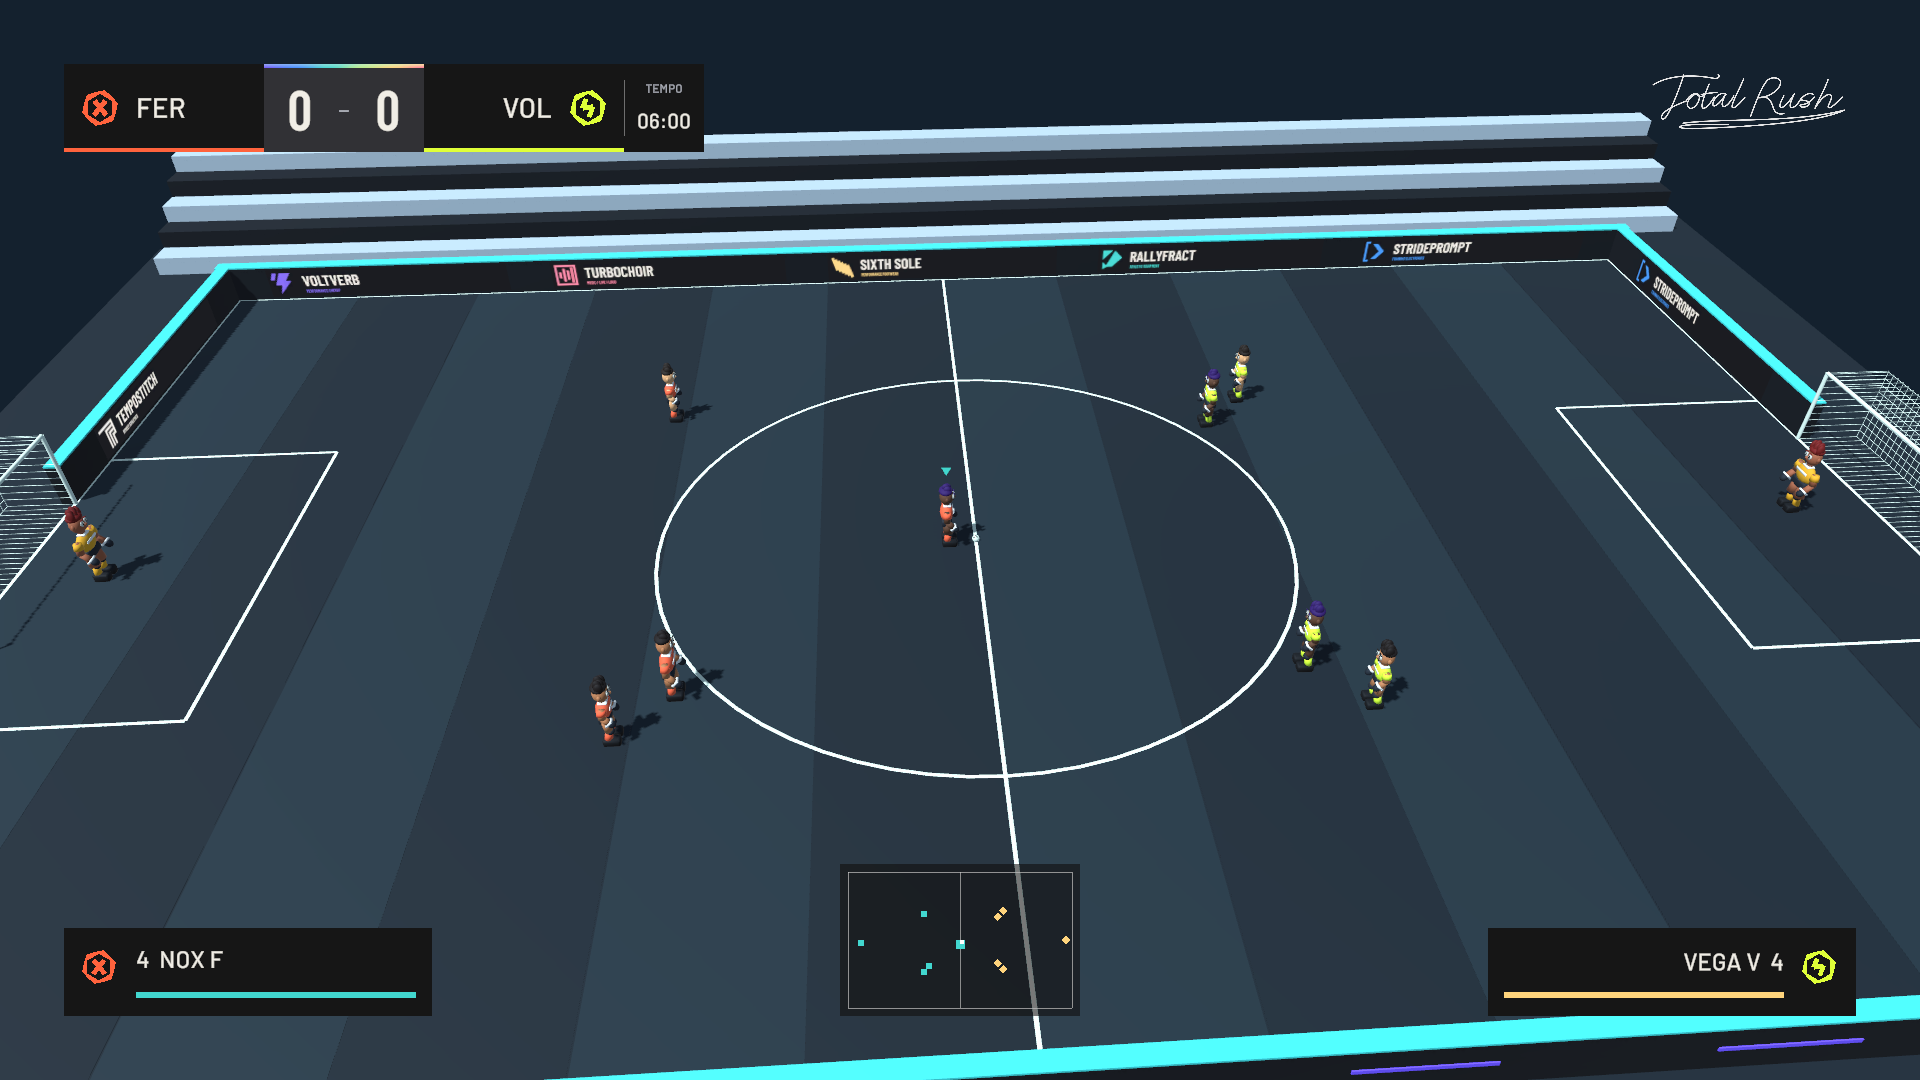
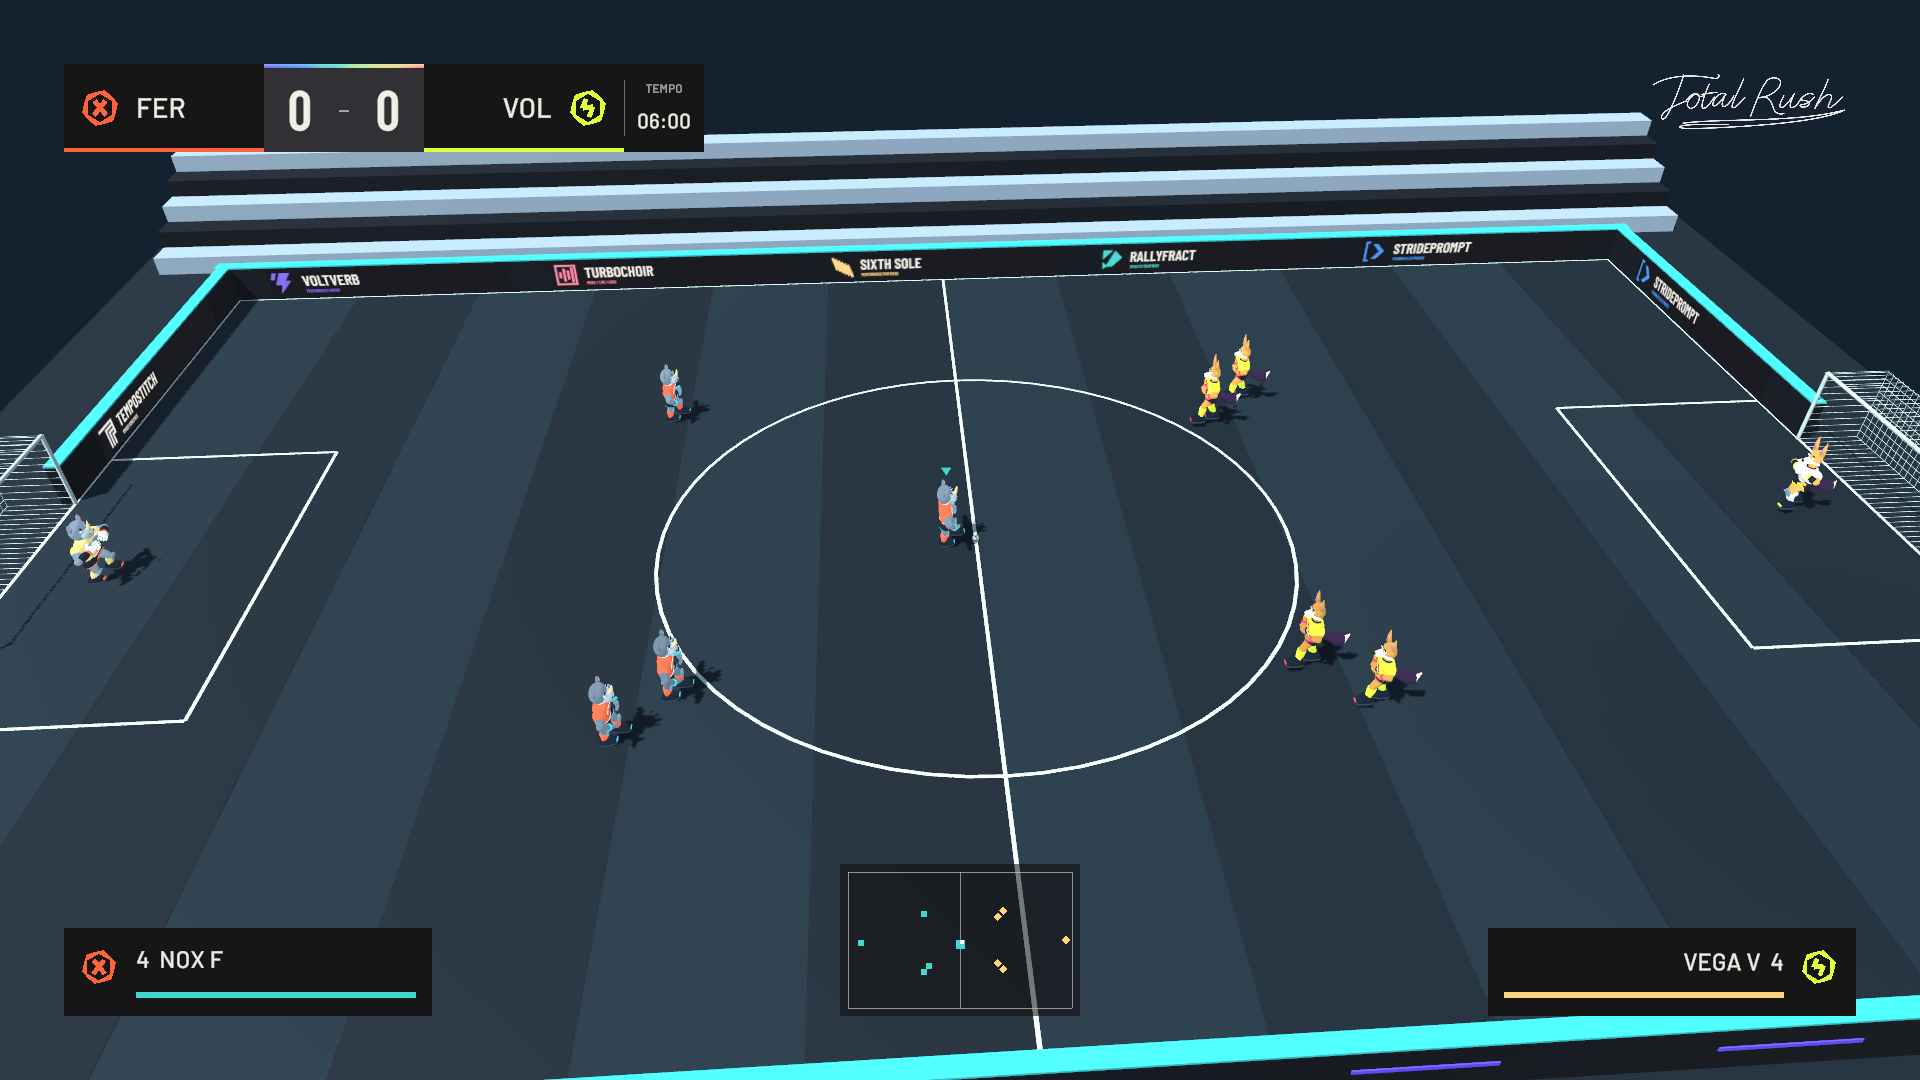
Total Rush 0.1.3: Arena Creatures, original motion and Vector Core

diff --git a/README.md b/README.md
@@ -5,7 +5,7 @@
 <p align="center"><img src="docs/assets/total-rush-icon.png" alt="Icona Total Rush" width="112"></p>
 
 <p align="center"><strong>Calcio arcade. Squadre originali. Nessun freno.</strong></p>
-<p align="center">macOS Apple Silicon · Windows x64 · Versione 0.1.2</p>
+<p align="center">macOS Apple Silicon · Windows x64 · Versione 0.1.3</p>
 
 <p align="center">
   <a href="https://github.com/YooTommy-CH/total-rush/releases/latest"><strong>SCARICA TOTAL RUSH</strong></a>
@@ -17,6 +17,12 @@
 
 ![Il menu di Total Rush, con la firma originale e un capitano 3D](docs/assets/menu.png)
 
+## Arena Creatures — 0.1.3
+
+Un cast animale e fantastico, con proporzioni e silhouette diverse fra squadre. Nuove animazioni originali per locomozione, tiri, passaggi, contrasti, Rush Strike ed esultanze. Il rig mantiene collegate braccia e mani durante le azioni. I portieri hanno modelli e pose di parata dedicati. Il pallone Vector Core sostituisce il modello precedente con pannelli originali e accenti di energia.
+
+![Le famiglie di creature di Total Rush](docs/assets/creatures.png)
+
 ## Prismatic Rush — 0.1.2
 
 Una nuova identità visiva: carta chiara, antracite e luce prismatica. Menu con capitano 3D integrato, selezione delle squadre contrapposte, impostazioni ridisegnate e transizioni direzionali. Il nuovo tabellone mantiene punteggio e timer in colonne stabili; energia, potenza, radar e risultati condividono la stessa geometria. Otto sponsor immaginari originali animano i cartelloni dell’arena.
@@ -27,7 +33,7 @@ Una nuova identità visiva: carta chiara, antracite e luce prismatica. Menu con 
 
 Quattro rusher e un portiere per squadra. Passa, scatta, colpisci e usa le sponde per costruire l’azione. Le spallate spostano gli avversari; i passaggi consecutivi caricano il pallone. In Rush Match scegli tre, cinque o sette minuti.
 
-Otto squadre originali, ognuna con capitano, colori e simbolo propri: **Ferro, Volt, Marea, Cenere, Prisma, Brina, Rift e Selva**. Dodici modelli cartooneschi creati in Blender, con rig animato e tre livelli di dettaglio. Arbitri e allenatori assenti.
+Otto squadre originali, ognuna con capitano, colori e simbolo propri: **Ferro, Volt, Marea, Cenere, Prisma, Brina, Rift e Selva**. Quaranta creature originali create in Blender: rinoceronti, fennec, axolotl, cinghiali vulcanici, falene cristalline, gufi delle nevi, creature ciclopiche e linci. Ogni squadra ha quattro varianti da campo e un portiere dedicato, con rig articolato e tre livelli di dettaglio. Arbitri e allenatori assenti.
 
 ## Green-Check
 
@@ -51,7 +57,7 @@ Il cursore resta in tempo reale. Il tempismo perfetto scatena un tiro elettrico 
 | **Il Circuito** | Una stagione fra le otto squadre originali. |
 | **Allenamento** | Campo libero, partitella, rigori e punizioni. |
 
-![Il nuovo HUD nell’arena di Total Rush](docs/assets/arena.png)
+![Il nuovo cast nell’arena di Total Rush](docs/assets/arena.png)
 
 ## Comandi essenziali
 
@@ -72,7 +78,7 @@ Tiri a giro, potenti, rasoterra e trivela: modificatori nella schermata **Impost
 
 ## Download e aggiornamenti
 
-Scarica **[Total Rush 0.1.2](https://github.com/YooTommy-CH/total-rush/releases/tag/v0.1.2)** per macOS Apple Silicon o Windows x64. La build macOS è firmata con Developer ID e notarizzata da Apple. Su Mac è disponibile anche un **DMG personalizzato**, con installazione trascinando l’app in Applicazioni. App ed eseguibile si chiamano ora **Total Rush.app** e **Total Rush.exe**.
+Scarica **[Total Rush 0.1.3](https://github.com/YooTommy-CH/total-rush/releases/tag/v0.1.3)** per macOS Apple Silicon o Windows x64. La build macOS è firmata con Developer ID e notarizzata da Apple. Su Mac è disponibile anche un **DMG personalizzato**, con installazione trascinando l’app in Applicazioni. App ed eseguibile si chiamano ora **Total Rush.app** e **Total Rush.exe**.
 
 **Passaggio dalla 0.1.0:** scarica e installa manualmente questa versione una volta, perché sono cambiati i nomi dei pacchetti. Dalla 0.1.1 il gioco controlla gli aggiornamenti all’apertura: **Aggiorna ora** scarica e verifica il pacchetto, chiude l’app, installa e riapre il gioco. La libreria personale e i salvataggi restano nel profilo del dispositivo. La soundtrack personale, le copertine e il codice sorgente non sono distribuiti in questo repository.
 
@@ -92,6 +98,6 @@ Abbinamento anche per ordine delle parole, maiuscole, accenti e piccole differen
 
 Anteprima giocabile in sviluppo, realizzata con Unity 6.6 e URP. Le immagini sono catture della build del gioco, senza sfondi generati. Squadre, personaggi, simboli e identità sono originali; nessun personaggio o asset Nintendo incluso.
 
-La build macOS è stata eseguita e verificata. La build Windows è compilata e richiede ancora prove su hardware Windows. Il risultato di 60 FPS su M1 di base resta da misurare. Online e multiplayer locale non sono inclusi nella 0.1.2.
+La build macOS è stata eseguita e verificata. La build Windows è compilata e richiede ancora prove su hardware Windows. Il risultato di 60 FPS su M1 di base resta da misurare. Online e multiplayer locale non sono inclusi nella 0.1.3.
 
 Attribuzioni e licenze di animazioni, font e dipendenze sono incluse nell’app. Vedi [CREDITI.md](CREDITI.md).

diff --git a/CHANGELOG.md b/CHANGELOG.md
@@ -1,5 +1,15 @@
 # Novità
 
+## Total Rush 0.1.3 — Arena Creatures
+
+- Ritirato il cast umano: otto famiglie animali e fantastiche originali, con quaranta varianti, compresi otto portieri dedicati. Proporzioni corporee diverse per specie.
+- Rig a 52 ossa, dita articolate, espressioni e tre LOD. Corretta la continuità di braccia e avambracci durante le pose.
+- 37 clip originali per famiglia, locomozione, cambi direzione, frenate, passaggi brevi/rapidi/potenti, cinque tiri, contrasti, scivolate, Rush Strike ed esultanze.
+- Portieri con stance, spostamenti, parate e recupero dedicati; autorità delle parate e bilanciamento conservati.
+- Nuovo pallone Vector Core, pannelli originali, normal map e tre LOD. Rotazione legata al Rigidbody, collisione sferica invariata.
+- Accenti Rush Strike differenziati per squadra. Menu, modalità, comandi, salvataggi e musica personale conservati.
+
+
 ## Total Rush 0.1.2 — Prismatic Rush
 
 - Nuova composizione del menu: capitano 3D integrato, titoli grandi, modalità in basso, colori prismatici e superfici chiare/scure. Firma e icona esistenti conservate.

diff --git a/CREDITI.md b/CREDITI.md
@@ -4,7 +4,7 @@
 
 **Sponsor immaginari originali:** Voltverb, Turbochoir, Sixth Sole, Rallyfract, Strideprompt, Tempostitch, Zonefern e Bassbracket. Simboli e wordmark disegnati per Total Rush.
 
-**Animazioni:** locomozione Quaternius Universal Animation Library Standard, CC0. Calcio adattato da animazioni Meshy già autorizzate, retargettate sui nuovi personaggi. Attribuzione: Tommaso / Meshy AI — “Model rigged/animated with Meshy”, [CC BY 4.0](https://creativecommons.org/licenses/by/4.0/).
+**Cast e animazioni 0.1.3:** quaranta creature, rig, UV, palette, espressioni, tre LOD, pallone Vector Core e 37 clip per famiglia realizzati per Total Rush in Blender. Nessuna generazione Meshy o animazione Nintendo in questa versione. I modelli e le animazioni delle versioni precedenti sono ritirati dalle risorse attive.
 
 **Font:** Barlow, Jeremy Tribby / Barlow Project; Liberation Sans. SIL Open Font License. Testi delle licenze inclusi nell’app.
 

diff --git a/INSTALLAZIONE.md b/INSTALLAZIONE.md
@@ -1,11 +1,11 @@
 # Installare Total Rush
 
-Scarica **[Total Rush 0.1.2](https://github.com/YooTommy-CH/total-rush/releases/tag/v0.1.2)**.
+Scarica **[Total Rush 0.1.3](https://github.com/YooTommy-CH/total-rush/releases/tag/v0.1.3)**.
 
 
 ## macOS Apple Silicon
 
-1. Scarica `TotalRush-0.1.2-macOS-arm64.dmg` e aprilo.
+1. Scarica `TotalRush-0.1.3-macOS-arm64.dmg` e aprilo.
 2. Nella finestra personalizzata trascina **Total Rush** su **Applicazioni**. Espelli il disco dopo la copia.
 3. Apri **Total Rush.app** da Applicazioni.
 
